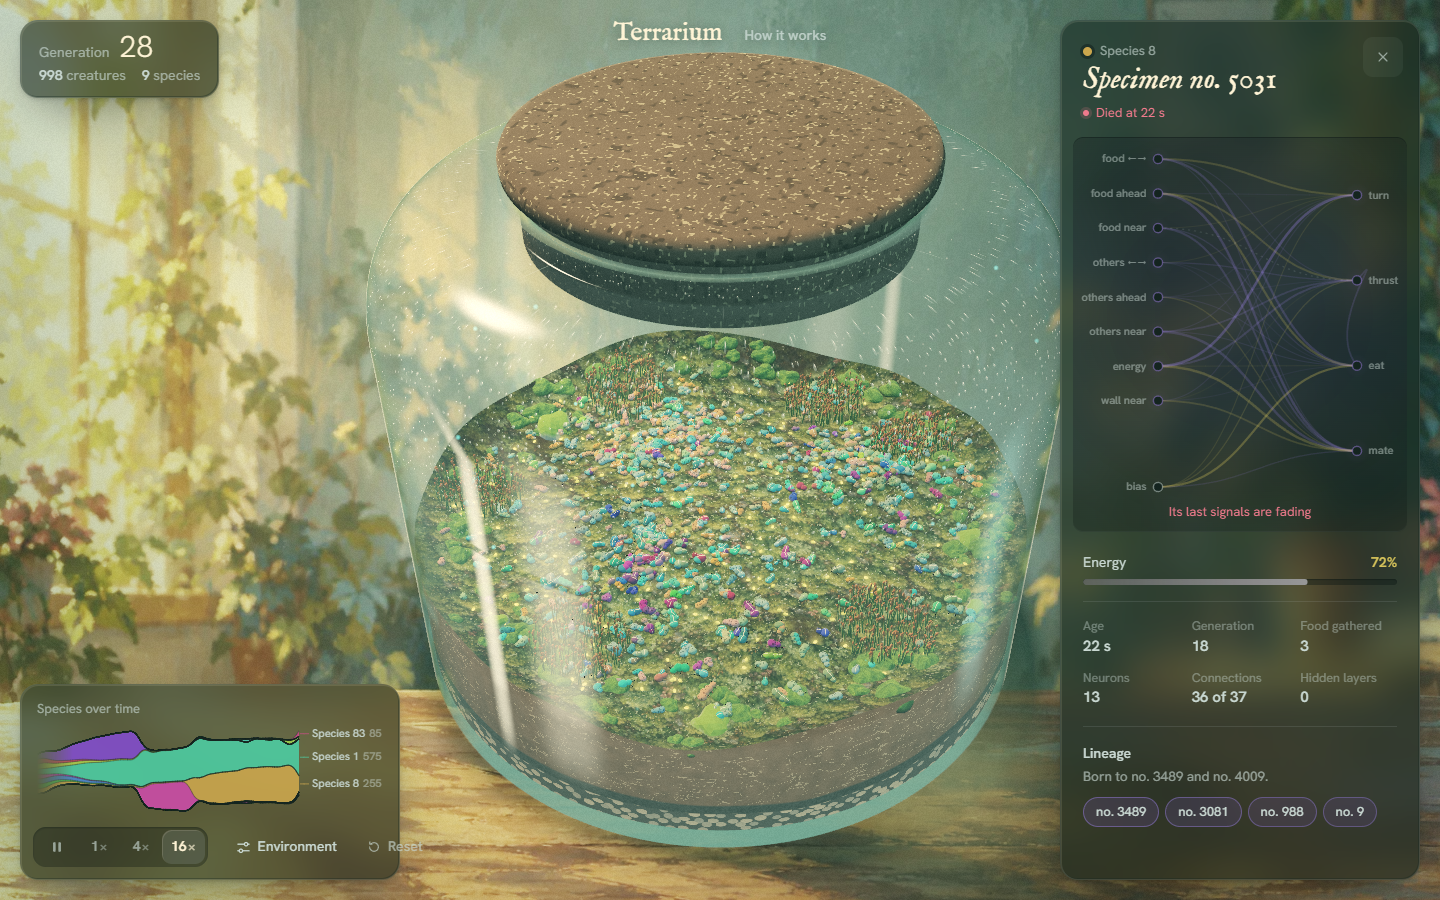
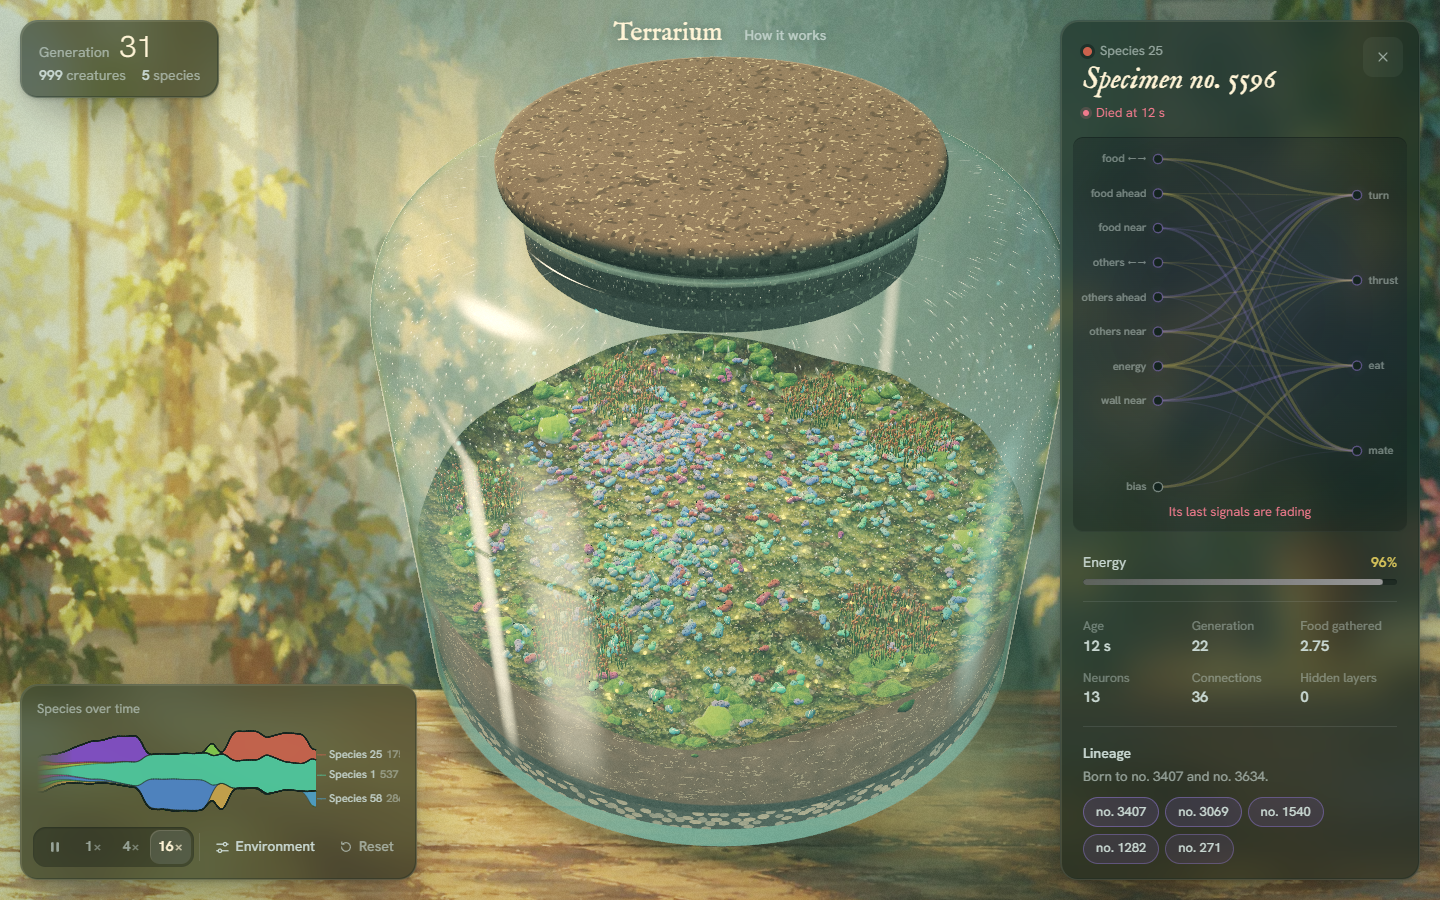
fix(live): review round on LOD + polish
- reused slots start at FAR so their first leg frame replants and solves
  (no flash of the previous occupant's legs)
- far creatures re-sample one segment's ground per frame (round robin)
- mid off-frames keep planted feet at their world spot; only the knee rides
- the selected creature is always full detail
- body boost lifts hips with the body; pick proxy scales with the drawn body
- overview colour eases chroma down 25% (close-ups unchanged)
- cork cap overhangs the lip (NECK_R + 0.24), seat at LIP_Y + 0.02
- camera far plane covers the fitted distance at any aspect; header updated

diff --git a/src/live/creatures.js b/src/live/creatures.js
@@ -73,7 +73,8 @@ void main() {
   // countershading: a darker back, a pale belly, like real small animals
   alb *= mix(1.0, 0.82, smoothstep(0.2, 0.95, vObj.y));
   alb = mix(alb, mix(alb, uCream, 0.55), smoothstep(-0.15, -0.7, vObj.y));
-  if (vPattern > 1.5) {
+  float pat = floor(vPattern + 0.01), ov = (fract(vPattern + 0.01) - 0.01) * 2.0;
+  if (pat > 1.5) {
     // spotted: a few soft dark spots across the back
     // spotted: a few large irregular blotches, different on every segment
     vec2 sp = vObj.xz * 1.35 + seed * 9.0 + vMisc.x * 5.3;
@@ -83,7 +84,7 @@ void main() {
     float wob = 0.04 * sin(atan(g.y - jit.y * 0.4, g.x - jit.x * 0.4) * 3.0 + seed * 20.0);
     float s = smoothstep(rr + 0.03, rr - 0.03, length(g - jit * 0.4) + wob) * step(0.3, lvHash(ci + 6.0));
     alb = mix(alb, alb * 0.42, s * smoothstep(-0.2, 0.25, vObj.y));
-  } else if (vPattern > 0.5) {
+  } else if (pat > 0.5) {
     // banded: alternate segments darker, with a pale dorsal line
     alb *= mix(1.0, 0.6, vMisc.y);
     alb = mix(alb, uCream * 0.9, smoothstep(0.14, 0.06, abs(vObj.x)) * smoothstep(0.3, 0.8, vObj.y) * 0.6);
@@ -91,6 +92,8 @@ void main() {
   // starving creatures fade toward grey
   float e = clamp(vCol.a, 0.0, 1.0);
   alb = mix(vec3(dot(alb, vec3(0.3, 0.55, 0.15))) * 0.8, alb, 0.72 + 0.28 * e);
+  // at the overview, ease toward gouache: less chroma, so 1000 creatures read as paint, not candy
+  alb = mix(vec3(dot(alb, vec3(0.3, 0.55, 0.15))), alb, 1.0 - 0.25 * clamp(ov, 0.0, 1.0));
   // gouache brush grain
   alb *= 0.93 + 0.14 * lvNoise(vObj.xy * 6.0 + vObj.z * 3.0 + seed * 17.0);
   float ao = smoothstep(-1.0, 0.3, vObj.y) * 0.75 + 0.25;
@@ -228,6 +231,8 @@ export function createCreatures(scene, { max = 2000, bodyFromGenes, reducedMotio
   // reused on the frames a mid-LOD creature skips its IK
   const lod = new Uint8Array(max).fill(LOD_FULL);
   const legOff = new Float32Array(max * MAX_SEG * 2 * 6);
+  const footY = new Float32Array(max * MAX_SEG * 2);   // planted feet keep their solved height on off-frames
+  const segGround = new Float32Array(max * MAX_SEG);   // far creatures refresh one segment's ground per frame
   let camX = 0, camY = 0, camZ = 0, pxPerUnit = 0, frameNo = 0;
 
   const speciesHue = new Map();
@@ -288,7 +293,9 @@ export function createCreatures(scene, { max = 2000, bodyFromGenes, reducedMotio
     bodyRGB[o] = tmpRGB[0]; bodyRGB[o + 1] = tmpRGB[1]; bodyRGB[o + 2] = tmpRGB[2];
     spec[s] = birth.species ?? -1;
     recolor(s);
-    lod[s] = LOD_FULL;
+    // a reused slot must not show its previous occupant's legs: starting at FAR forces a
+    // replant and a full solve on the first frame it is drawn with legs
+    lod[s] = LOD_FAR;
     placed[s] = 0; grow[s] = 0; dying[s] = -1; phase[s] = seed[s] * 6.28; speedEst[s] = 0; energy[s] = 1;
     stampPrev[s] = stampNext[s] = -1;
     activeIdx[s] = nActive; active[nActive++] = s;
@@ -320,6 +327,7 @@ export function createCreatures(scene, { max = 2000, bodyFromGenes, reducedMotio
       chain[o + 1] = 0;
       const gx = chain[o], gz = chain[o + 2], lat = legLayout(r, leg[s], lay).latF;
       resetPair(gait, (s * MAX_SEG + i) * GAIT.SIZE, gx - fz * lat, gz + fx * lat, gx + fz * lat, gz - fx * lat, i & 1);
+      segGround[s * MAX_SEG + i] = heightAt(gx / WORLD_R, gz / WORLD_R); // valid ground before the round robin starts
     }
     lastX[s] = X; lastZ[s] = Z;
     placed[s] = 1;
@@ -421,17 +429,20 @@ export function createCreatures(scene, { max = 2000, bodyFromGenes, reducedMotio
       }
       const bodyY = legLayout(r, L, lay).bodyY;
       // how big is this creature on screen? (no view set = always full detail)
-      let lv = LOD_FULL, boost = 1;
+      let lv = LOD_FULL, boost = 1, ov = 0;
       if (pxPerUnit > 0) {
         const cx = X - camX, cy = bodyY - camY, cz = Z - camZ;
         const px = projectedPx(r, Math.sqrt(cx * cx + cy * cy + cz * cz), pxPerUnit);
-        lv = lodFor(px, lod[s]);
+        lv = s === selectedSlot ? LOD_FULL : lodFor(px, lod[s]); // the followed creature is always full
+        // overview colour eases toward gouache (less chroma); close-ups keep full colour
+        ov = px >= 16 ? 0 : px <= 7 ? 1 : (16 - px) / 9;
         // at the overview a 5 px body is noise: draw small bodies up to 1.45x (bodies only;
         // legs keep their real geometry). Fades out by 12 px, so close-ups are true size.
         if (px < 12) { const u = px <= 5 ? 1 : (12 - px) / 7; boost = 1 + 0.45 * u * u * (3 - 2 * u); }
       }
       const replant = lod[s] === LOD_FAR && lv !== LOD_FAR; // gait state is stale after the analytic swing
       lod[s] = lv;
+      const ringI = (frameNo + s) % n; // far: the one segment whose ground is re-sampled this frame
       const solveNow = lv === LOD_FULL || replant || (lv === LOD_MID && (s + frameNo) % MID_EVERY === 0);
       const gaitDt = lv === LOD_MID ? dt * MID_EVERY : dt;
       if (lv === LOD_FAR) debug.far++; else if (lv === LOD_MID) debug.mid++; else debug.full++;
@@ -451,18 +462,25 @@ export function createCreatures(scene, { max = 2000, bodyFromGenes, reducedMotio
         const t = n > 1 ? i / (n - 1) : 0;
         const ri = r * (i === 0 ? 0.92 : 1 - 0.35 * t * t) * env;
         const gx = chain[c], gz = chain[c + 2];
-        const ground = heightAt(gx / WORLD_R, gz / WORLD_R);
+        // ground: every segment every frame, except far creatures, which re-sample one
+        // segment per frame (round robin) and reuse the rest: one heightAt per far creature
+        const gi = s * MAX_SEG + i;
+        let ground;
+        if (lv !== LOD_FAR || i === ringI) { ground = heightAt(gx / WORLD_R, gz / WORLD_R); segGround[gi] = ground; }
+        else ground = segGround[gi];
         const bob = bobAmt * r * (phS < 0 ? -phS : phS);
+        // a boosted (overview) body is lifted so it sits on the ground; hips and legs
+        // ride the same lift, so the boosted body never swallows its legs
+        const rv = ri * boost, lift = (boost - 1) * 0.82 * ri;
         // births/deaths scale the whole creature (no sinking into the ground), so its legs stay in reach at every size
-        const gy = ground + (bodyY + bob) * env;
+        const gy = ground + (bodyY + bob) * env + lift;
         chain[c + 1] = gy;
         mx += gx; my += gy; mz += gz;
 
         // segment instance
         let q = ns * 4;
-        const rv = ri * boost, gv = gy + (boost - 1) * 0.82 * ri; // boosted body sits on the ground, not in it
-        aPos[q] = gx; aPos[q + 1] = gv; aPos[q + 2] = gz; aPos[q + 3] = rv;
-        aFwd[q] = fx; aFwd[q + 1] = 0; aFwd[q + 2] = fz; aFwd[q + 3] = pattern[s];
+        aPos[q] = gx; aPos[q + 1] = gy; aPos[q + 2] = gz; aPos[q + 3] = rv;
+        aFwd[q] = fx; aFwd[q + 1] = 0; aFwd[q + 2] = fz; aFwd[q + 3] = pattern[s] + ov * 0.5; // pattern int, overview in the fraction
         aCol[q] = rgb[o]; aCol[q + 1] = rgb[o + 1]; aCol[q + 2] = rgb[o + 2]; aCol[q + 3] = energy[s];
         aMisc[q] = t; aMisc[q + 1] = i & 1; aMisc[q + 2] = selected; aMisc[q + 3] = seed[s];
         // contact shadow
@@ -505,10 +523,14 @@ export function createCreatures(scene, { max = 2000, bodyFromGenes, reducedMotio
             if (!solveTwoBone(hip, tgt, l1, l2, pole, knee, end).reached && st < 0) { gait[go + (side === 0 ? GAIT.LF : GAIT.RF)] = 1; debug.unreached++; }
             legOff[lo] = knee.x - hip.x; legOff[lo + 1] = knee.y - hip.y; legOff[lo + 2] = knee.z - hip.z;
             legOff[lo + 3] = end.x - hip.x; legOff[lo + 4] = end.y - hip.y; legOff[lo + 5] = end.z - hip.z;
+            footY[lo / 6] = end.y;
           } else {
-            // mid LOD, off frame: last frame's leg pose carried along with the hip
+            // mid LOD, off frame: a planted foot stays exactly where it is planted (no 20 Hz
+            // sawtooth); the knee and a foot in the air ride along with the hip
             knee.x = hip.x + legOff[lo]; knee.y = hip.y + legOff[lo + 1]; knee.z = hip.z + legOff[lo + 2];
-            end.x = hip.x + legOff[lo + 3]; end.y = hip.y + legOff[lo + 4]; end.z = hip.z + legOff[lo + 5];
+            const FX = side === 0 ? GAIT.LX : GAIT.RX, FT = side === 0 ? GAIT.LT : GAIT.RT;
+            if (gait[go + FT] < 0) { end.x = gait[go + FX]; end.z = gait[go + FX + 1]; end.y = footY[lo / 6]; }
+            else { end.x = hip.x + legOff[lo + 3]; end.y = hip.y + legOff[lo + 4]; end.z = hip.z + legOff[lo + 5]; }
           }
           let b = nb * 4;
           bA_[b] = hip.x; bA_[b + 1] = hip.y; bA_[b + 2] = hip.z; bA_[b + 3] = th;
@@ -527,10 +549,10 @@ export function createCreatures(scene, { max = 2000, bodyFromGenes, reducedMotio
           // two bead eyes (sub-pixel on far creatures, so skipped there) on the front of the head
           for (let side = -1; side <= 1; side += 2) {
             const e = ne * 4;
-            ePos[e] = gx + fx * 0.68 * ri - fz * 0.42 * ri * side;
-            ePos[e + 1] = gy + 0.3 * ri;
-            ePos[e + 2] = gz + fz * 0.68 * ri + fx * 0.42 * ri * side;
-            ePos[e + 3] = 0.24 * ri;
+            ePos[e] = gx + fx * 0.68 * rv - fz * 0.42 * rv * side;
+            ePos[e + 1] = gy + 0.3 * rv;
+            ePos[e + 2] = gz + fz * 0.68 * rv + fx * 0.42 * rv * side;
+            ePos[e + 3] = 0.24 * rv;
             eLook[ne * 3] = fx; eLook[ne * 3 + 1] = 0; eLook[ne * 3 + 2] = fz;
             ne++;
           }
@@ -539,7 +561,7 @@ export function createCreatures(scene, { max = 2000, bodyFromGenes, reducedMotio
       // proxy sphere for picking and the follow camera
       const m4 = s * 4;
       mid[m4] = mx / n; mid[m4 + 1] = my / n; mid[m4 + 2] = mz / n;
-      mid[m4 + 3] = Math.max(0.18, 0.5 * SPACING * r * (n - 1) + r * 1.5);
+      mid[m4 + 3] = Math.max(0.18, (0.5 * SPACING * r * (n - 1) + r * 1.5) * boost); // as drawn
     }
 
     segMesh.geo.instanceCount = ns; commit(sA, ns);

diff --git a/src/live/camera.js b/src/live/camera.js
@@ -3,13 +3,16 @@
  * a real object: every input sets a goal and the camera damps toward it, so
  * nothing snaps. Orbit by drag (or one finger), zoom by wheel (or pinch),
  * clamped so the jar never leaves view; follow(getPos) glides down onto a
- * creature at λ = 4 and release() glides back out to where you were.
+ * creature at λ = 4 and release() glides back out: same azimuth and zoom,
+ * tilt reset to the home stage angle. (Under reduced motion both are cuts.)
  *
  * Framing follows makemepulse: the subject fills the frame. The home distance
  * is fitted, not tuned: fitView() projects the jar's silhouette (JAR_RINGS) and finds
  * the distance at which it fills ~88% of the viewport height (or 90% of the
  * width on narrow screens), and the target height that centres it. Wheel/pinch
  * zoom is a factor on that fitted distance, so it holds at every aspect.
+ * Dragging the tilt refits too, so the camera dollies in or out as you tilt
+ * and the jar keeps filling the frame.
  */
 import * as THREE from 'three';
 import { damp, clamp } from '../core/ease.js';
@@ -158,7 +161,12 @@ export function createCameraRig(camera, dom, { reducedMotion = false } = {}) {
       dt = Math.min(dt, 0.1);
       // refit when the aspect or the tilt changes (the jar keeps filling the frame)
       const a = camera.aspect, pq = Math.round(phiT * 100);
-      if (a !== fit.aspect || pq !== fit.phiQ) { fitView(pq / 100, a, camera.fov, fit); fit.aspect = a; fit.phiQ = pq; home.y = fit.targetY; }
+      if (a !== fit.aspect || pq !== fit.phiQ) {
+        fitView(pq / 100, a, camera.fov, fit); fit.aspect = a; fit.phiQ = pq; home.y = fit.targetY;
+        // extreme aspects fit from far away: keep the room (backdrop, table) inside the far plane
+        const far = Math.max(200, fit.dist * ZOOM_MAX + 70);
+        if (camera.far !== far) { camera.far = far; camera.updateProjectionMatrix(); }
+      }
       distT = getPos ? followDistT : fit.dist * zoom;
       if (getPos) {
         const p = getPos();

diff --git a/src/live/jar.js b/src/live/jar.js
@@ -216,12 +216,12 @@ export function createJar() {
   // cork lid, bevelled, pressed into the neck
   // a tapered stopper seated in the neck: the cap overhangs the lip and sits on it,
   // the body goes down inside the glass (shaded there by corkFrag)
-  const T = NECK_R + 0.17, C = NECK_R - 0.06, CT = LIP_Y + 0.4, SEAT = LIP_Y + 0.05;
+  const T = NECK_R + 0.24, C = NECK_R - 0.06, CT = LIP_Y + 0.4, SEAT = LIP_Y + 0.02; // cap wider than the lip roll (NECK_R + 0.2)
   const corkPts = [[0, CT], [T - 0.22, CT], [T - 0.05, CT - 0.05], [T, CT - 0.16], [T - 0.01, SEAT + 0.03], [T - 0.08, SEAT], [C, SEAT], [C - 0.03, NECK_Y - 0.5], [C - 0.25, NECK_Y - 0.56], [0, NECK_Y - 0.56]].map(([x, y]) => new THREE.Vector2(x, y));
   const corkGeo = new THREE.LatheGeometry(corkPts.reverse(), 96);
   corkGeo.computeVertexNormals();
   const cork = new THREE.Mesh(corkGeo, new THREE.ShaderMaterial({
-    uniforms: { ...lightUniforms, uPeat: { value: PALETTE.peat.clone() }, uSeat: { value: LIP_Y + 0.05 } }, vertexShader: plainVert, fragmentShader: corkFrag,
+    uniforms: { ...lightUniforms, uPeat: { value: PALETTE.peat.clone() }, uSeat: { value: LIP_Y + 0.02 } }, vertexShader: plainVert, fragmentShader: corkFrag,
   }));
   cork.name = 'lv-cork';
 
